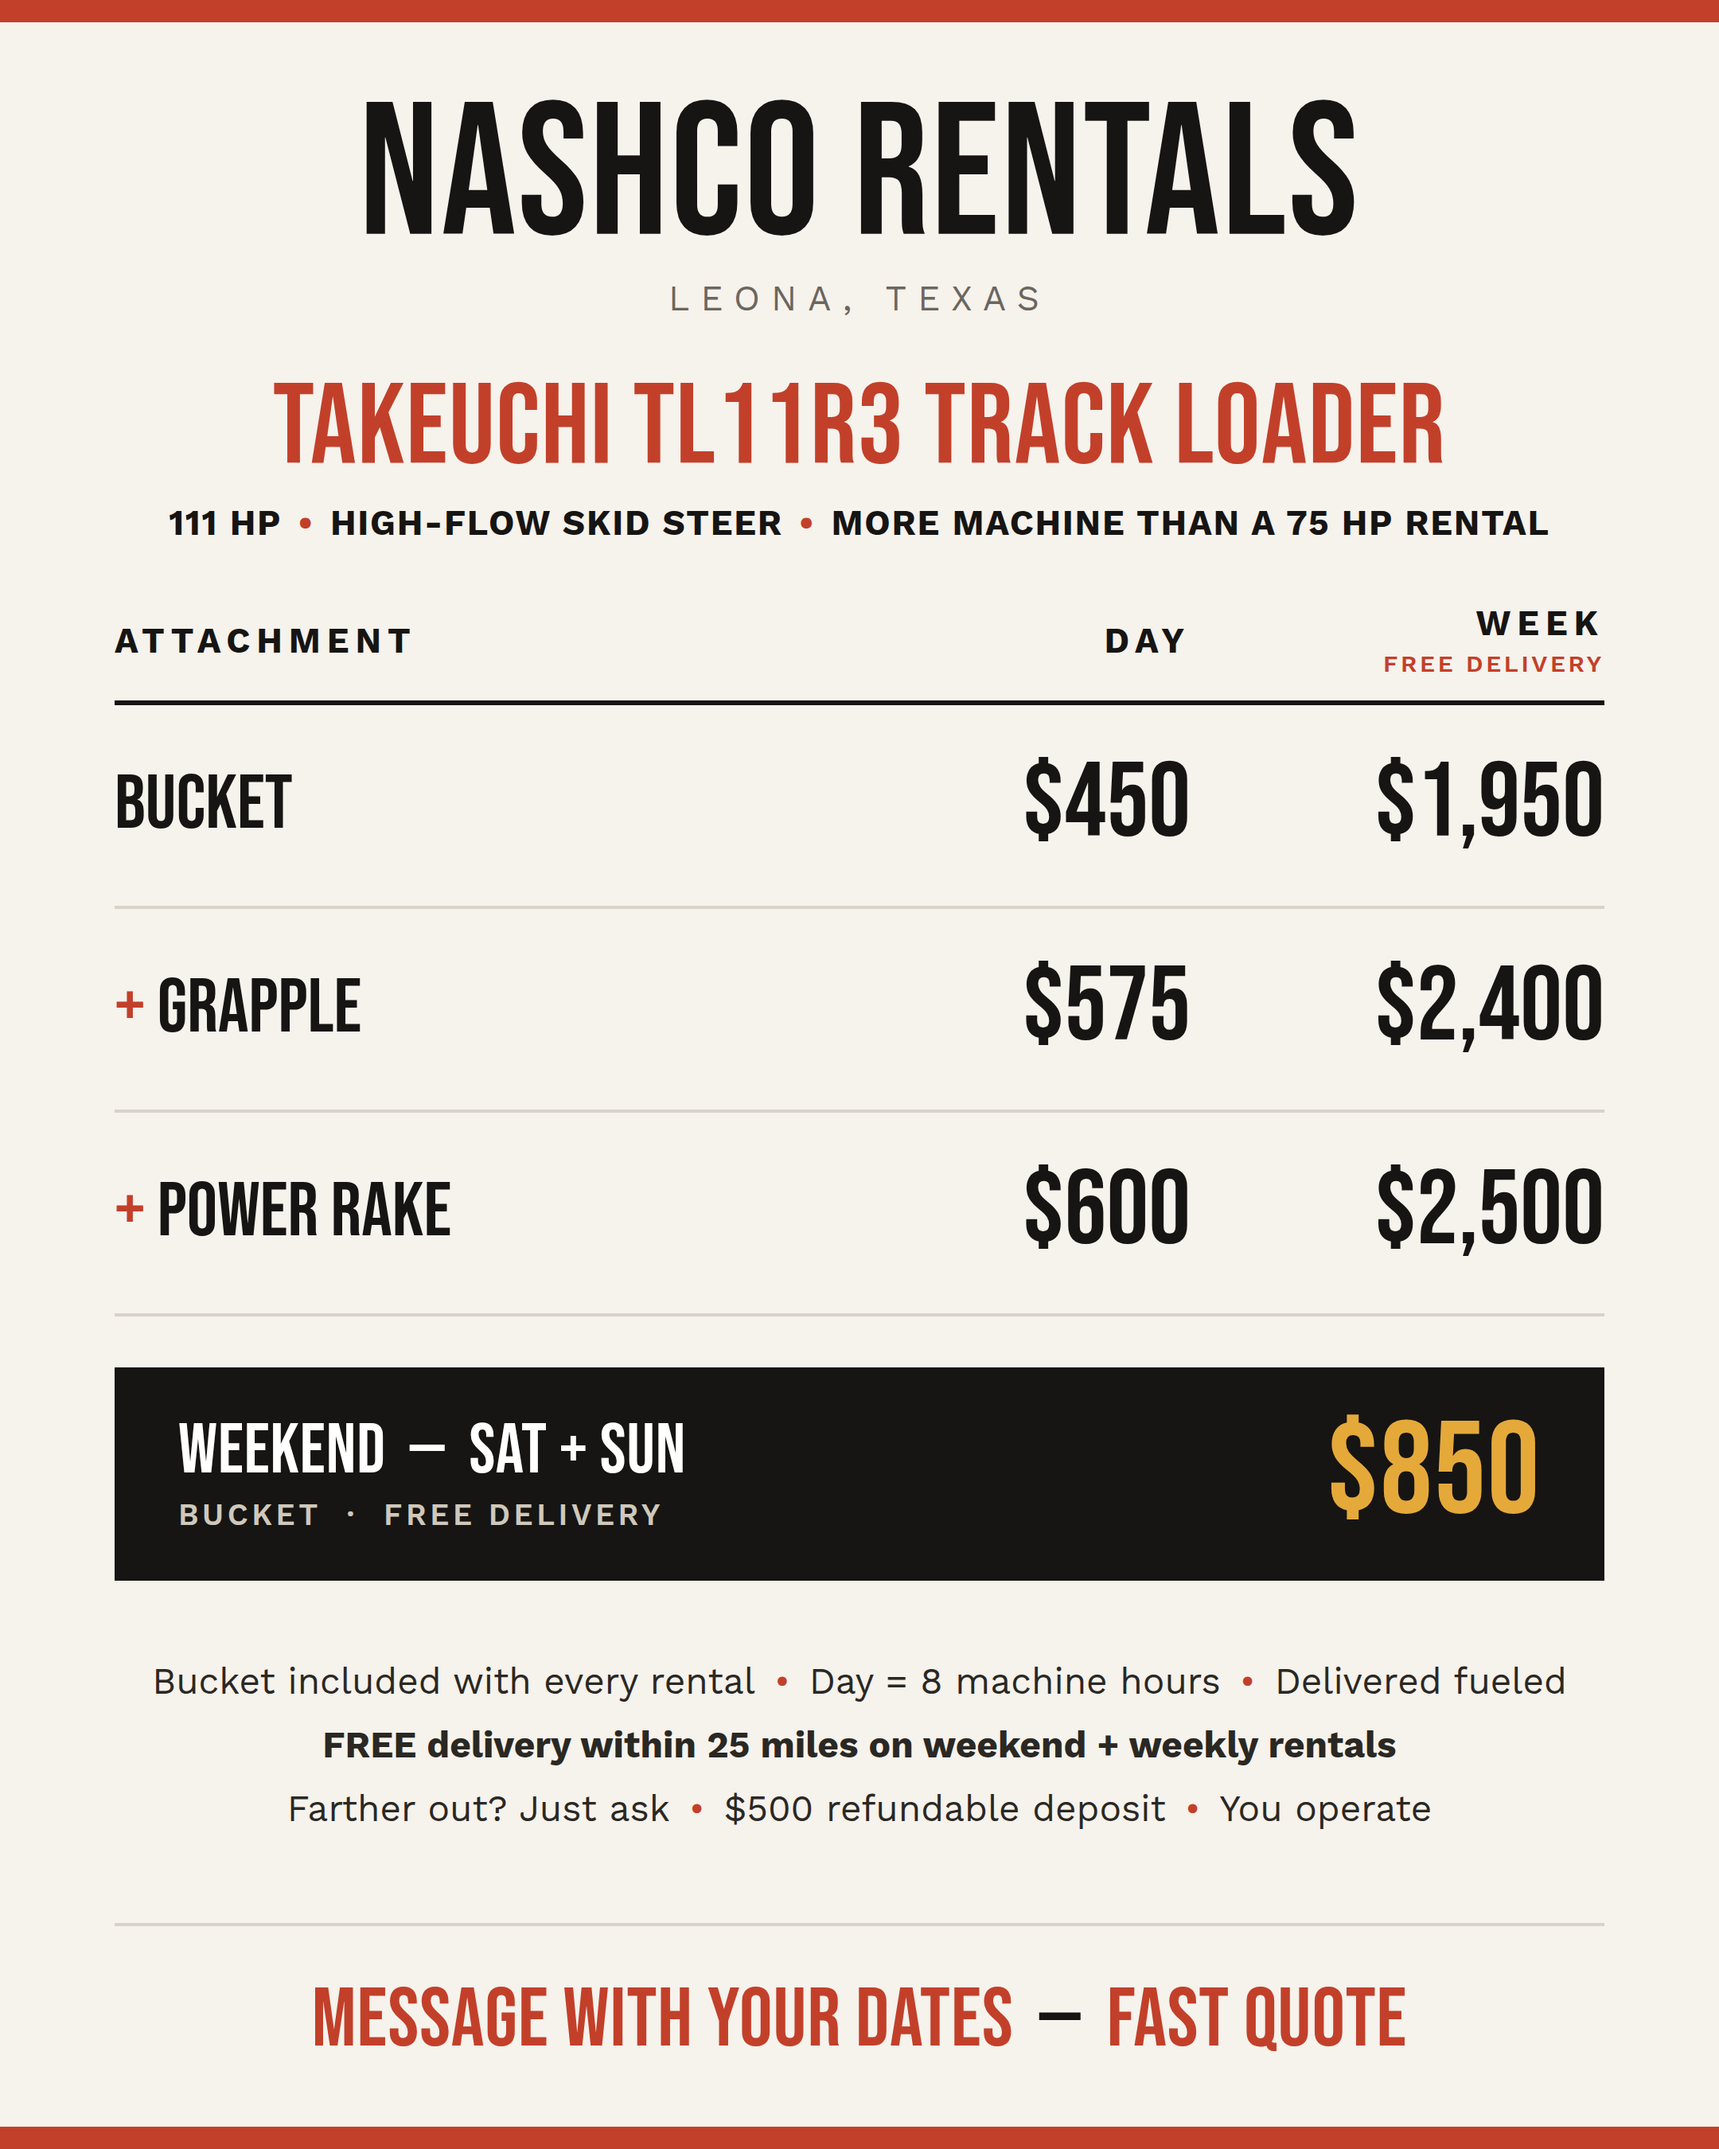
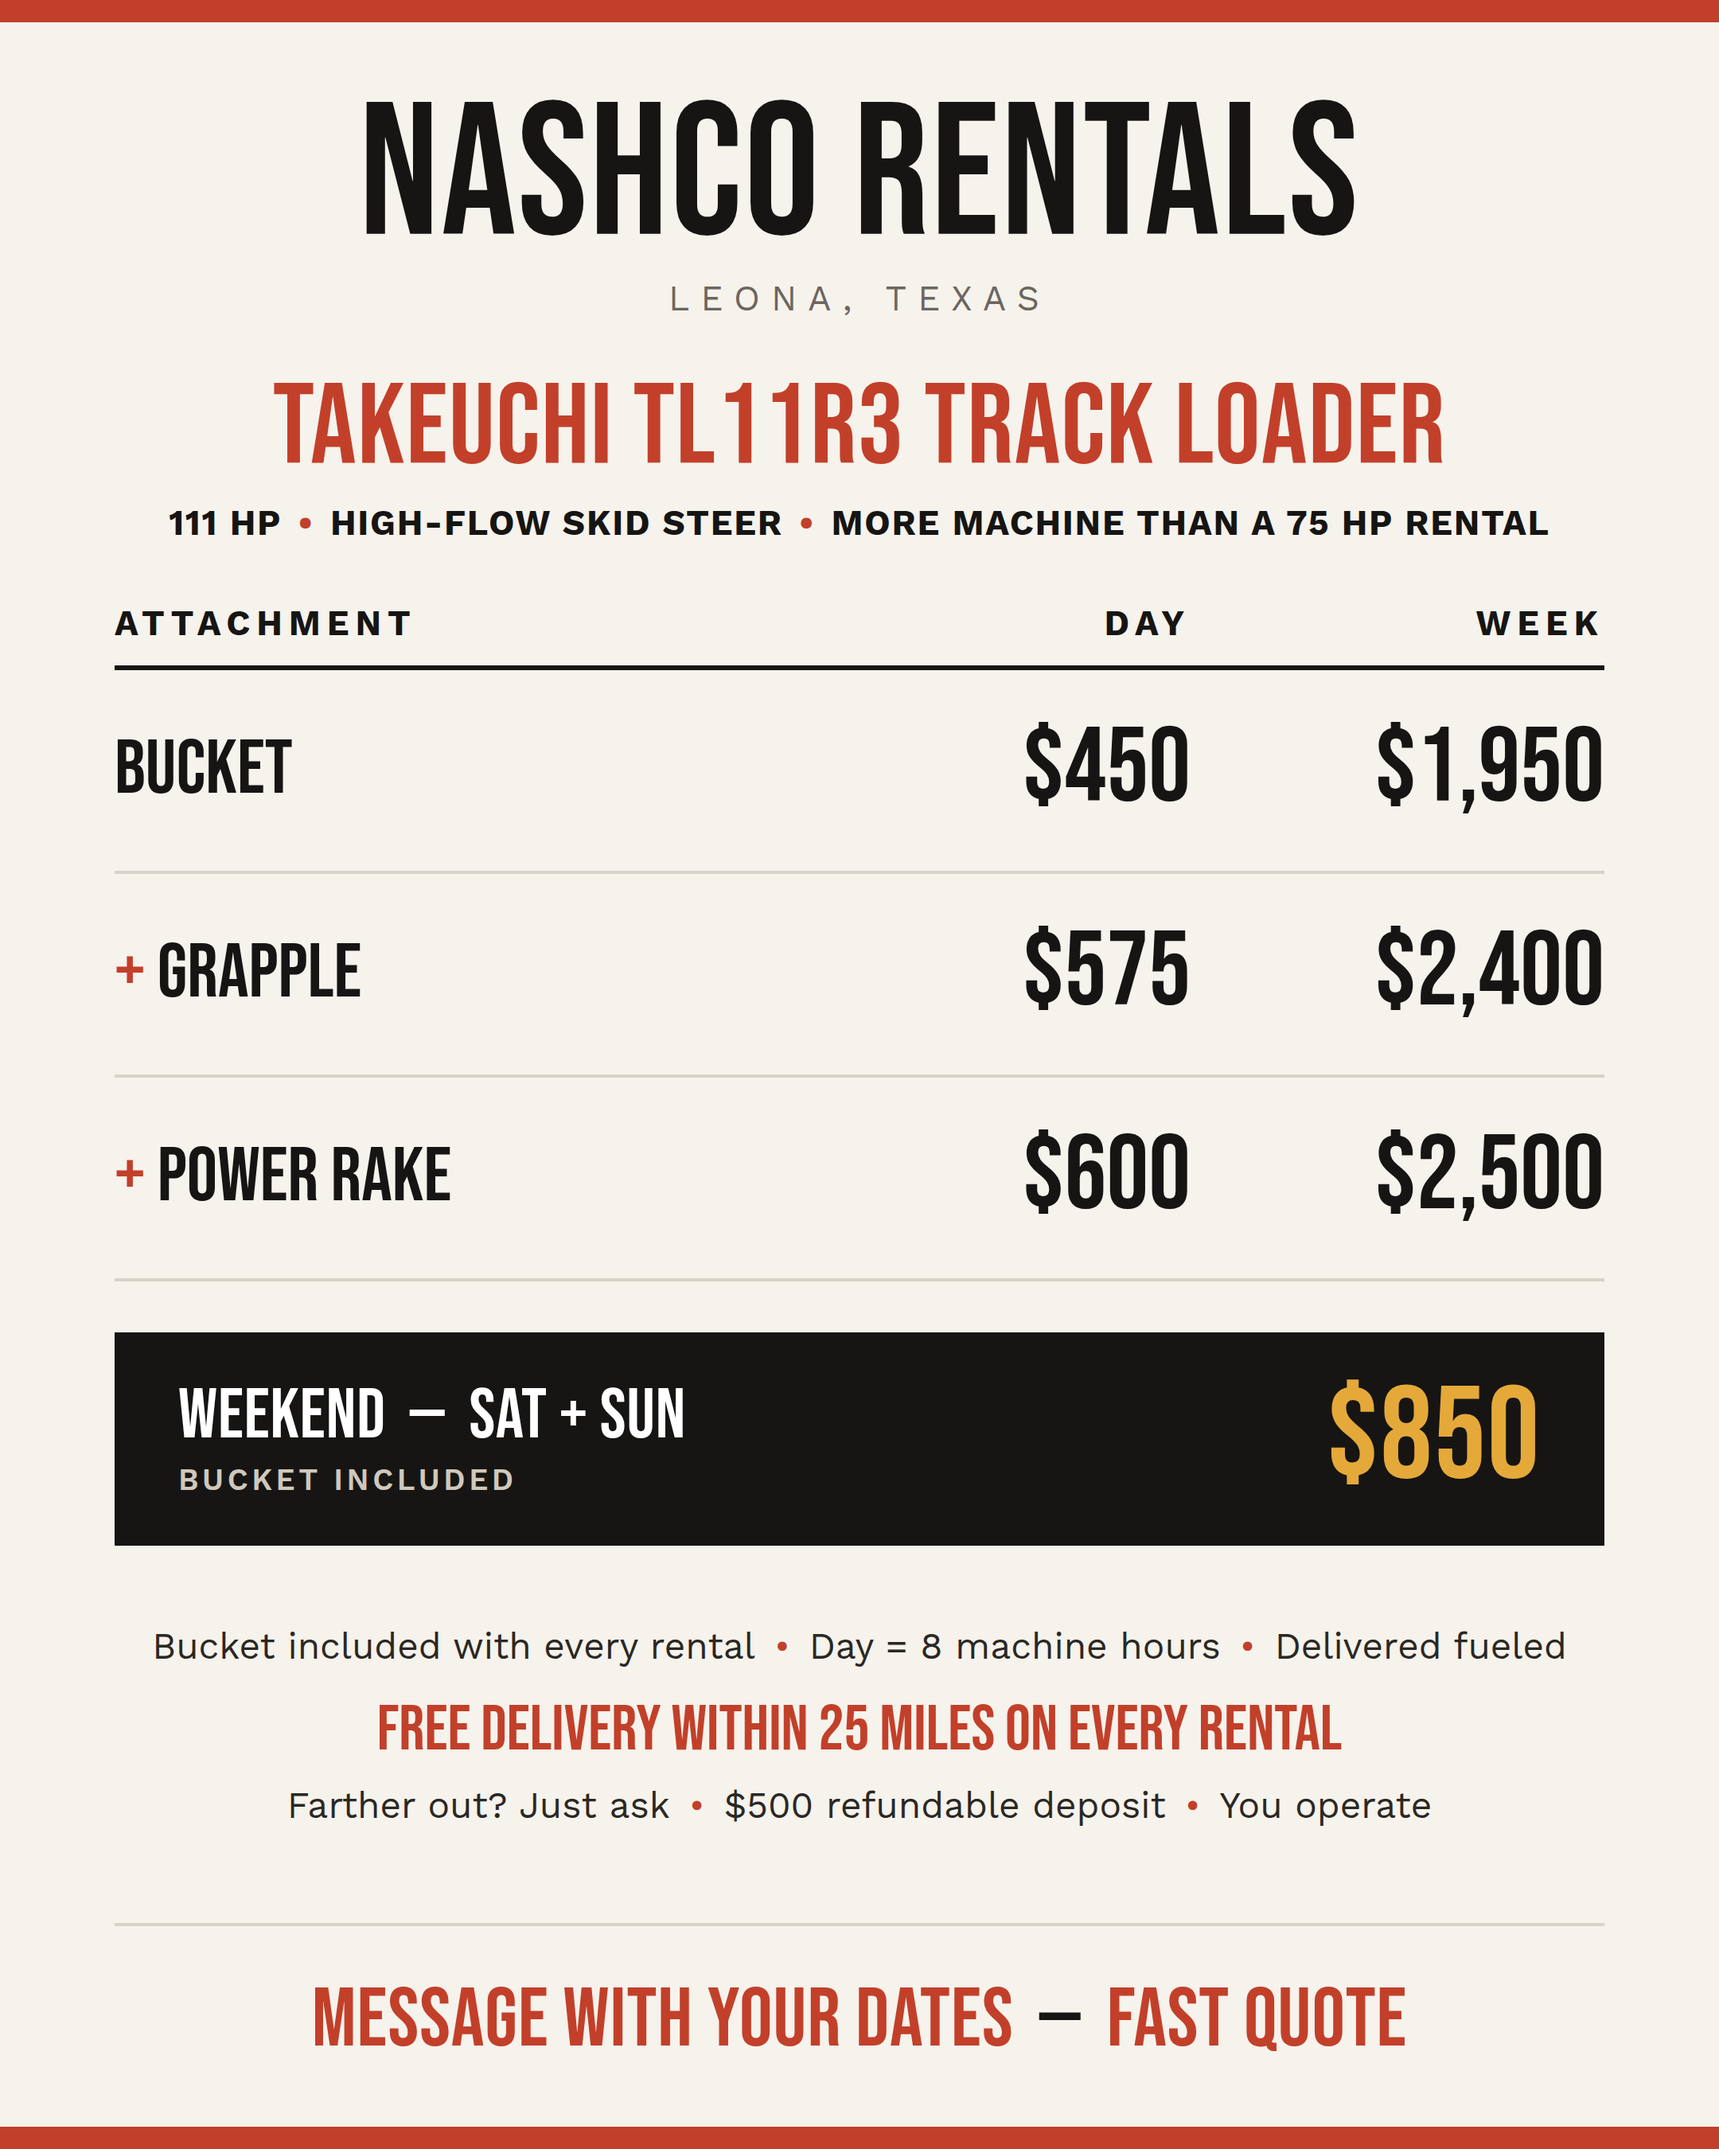
Rate card: free delivery within 25 miles on every rental
Claude-Session: https://claude.ai/code/session_01MjBdAn1tqXy1S9X7E6qMHj

diff --git a/marketing/rate-card.html b/marketing/rate-card.html
@@ -29,6 +29,7 @@
   .weekend .r{font-size:82px;line-height:1;color:var(--gold)}
   .terms{margin-top:44px;text-align:center;font-size:23px;line-height:1.75;color:#2a2823}
   .terms b{font-weight:700}
+  .terms .free{display:inline-block;font-family:"Bebas Neue","Arial Narrow",Impact,sans-serif;font-size:40px;color:var(--red);line-height:1.2;margin:8px 0 4px}
   .terms .dot{color:var(--red);padding:0 12px}
   .cta{margin-top:auto;margin-bottom:40px;padding-top:34px;border-top:2px solid var(--rule);text-align:center;font-size:52px;line-height:1;color:var(--red)}
   .cta .sep{color:var(--ink);padding:0 16px}
@@ -44,20 +45,20 @@
   </div>
 
   <table>
-    <tr><th>Attachment</th><th>Day</th><th>Week<small>Free delivery</small></th></tr>
+    <tr><th>Attachment</th><th>Day</th><th>Week</th></tr>
     <tr><td class="label">BUCKET</td><td class="price">$450</td><td class="price week">$1,950</td></tr>
     <tr><td class="label"><em>+</em> GRAPPLE</td><td class="price">$575</td><td class="price week">$2,400</td></tr>
     <tr><td class="label"><em>+</em> POWER RAKE</td><td class="price">$600</td><td class="price week">$2,500</td></tr>
   </table>
 
   <div class="weekend">
-    <div class="l bebas">WEEKEND &nbsp;—&nbsp; SAT + SUN<small>Bucket &nbsp;·&nbsp; Free delivery</small></div>
+    <div class="l bebas">WEEKEND &nbsp;—&nbsp; SAT + SUN<small>Bucket included</small></div>
     <div class="r bebas">$850</div>
   </div>
 
   <div class="terms">
     Bucket included with every rental<span class="dot">•</span>Day = 8 machine hours<span class="dot">•</span>Delivered fueled<br>
-    <b>FREE delivery within 25 miles on weekend + weekly rentals</b><br>
+    <span class="free">FREE DELIVERY WITHIN 25 MILES ON EVERY RENTAL</span><br>
     Farther out? Just ask<span class="dot">•</span>$500 refundable deposit<span class="dot">•</span>You operate
   </div>
 
